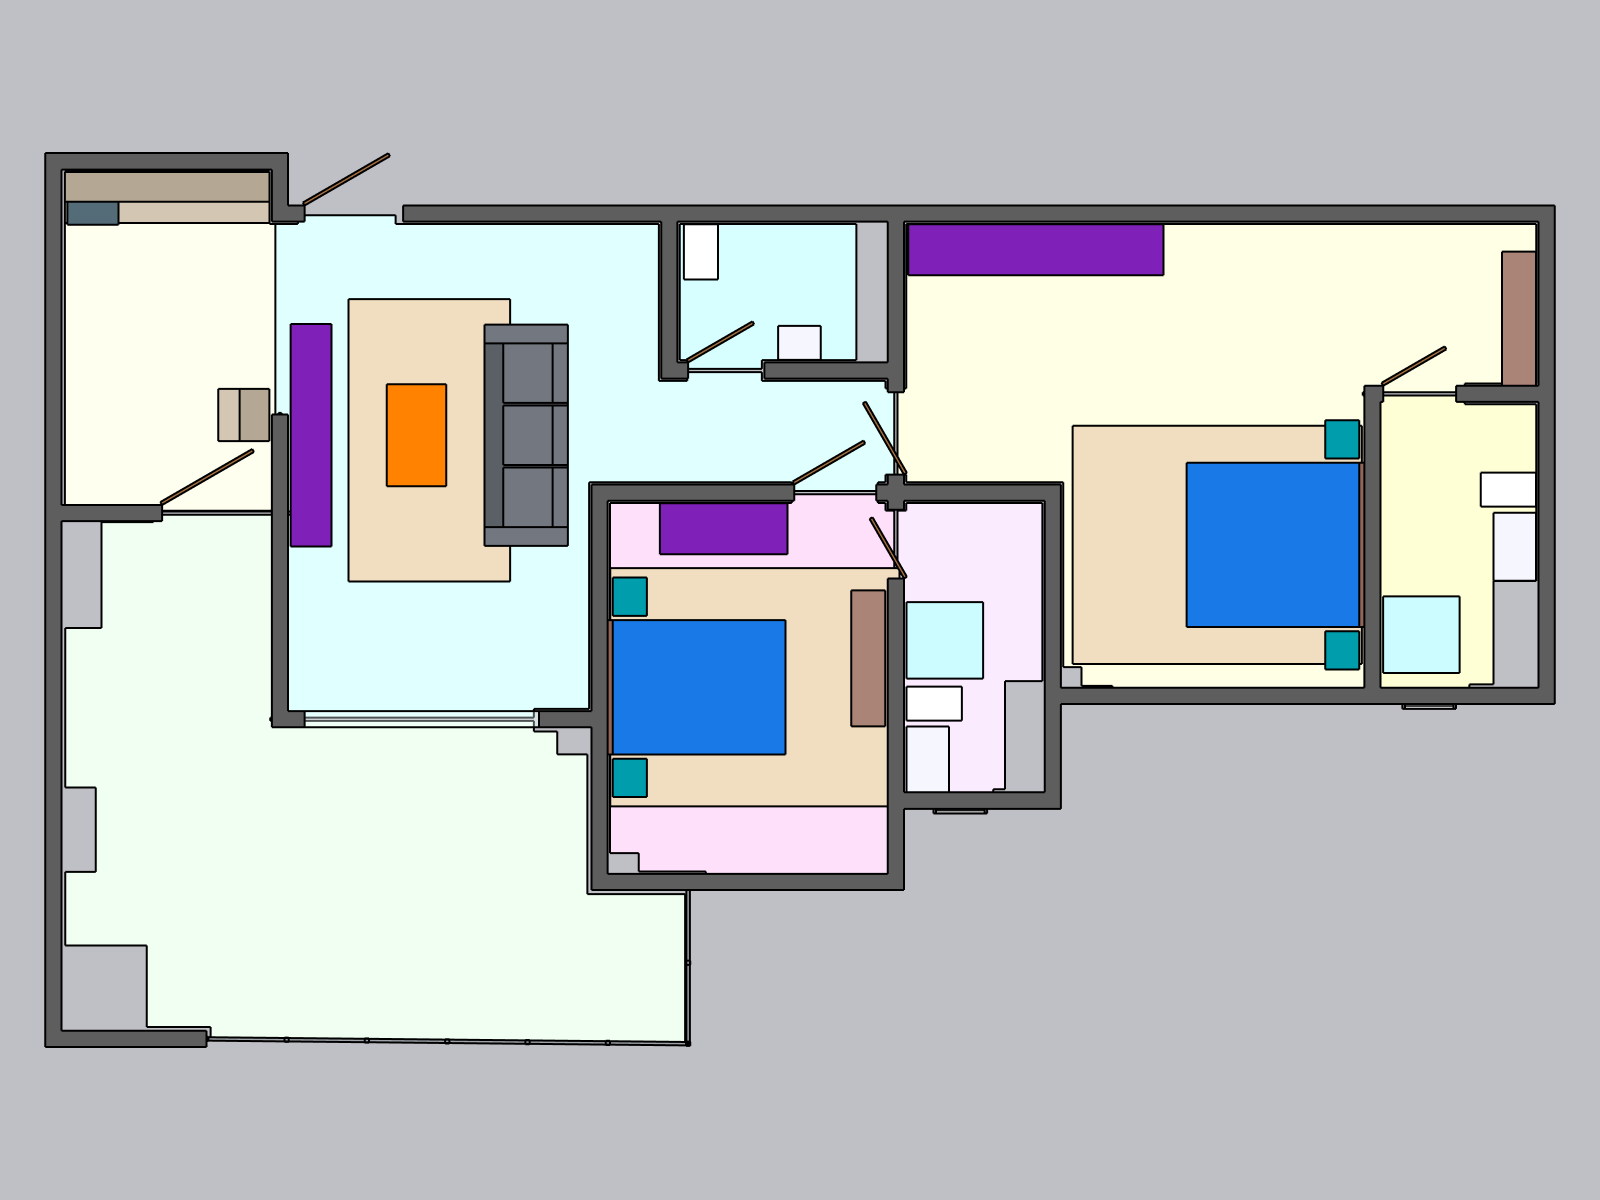
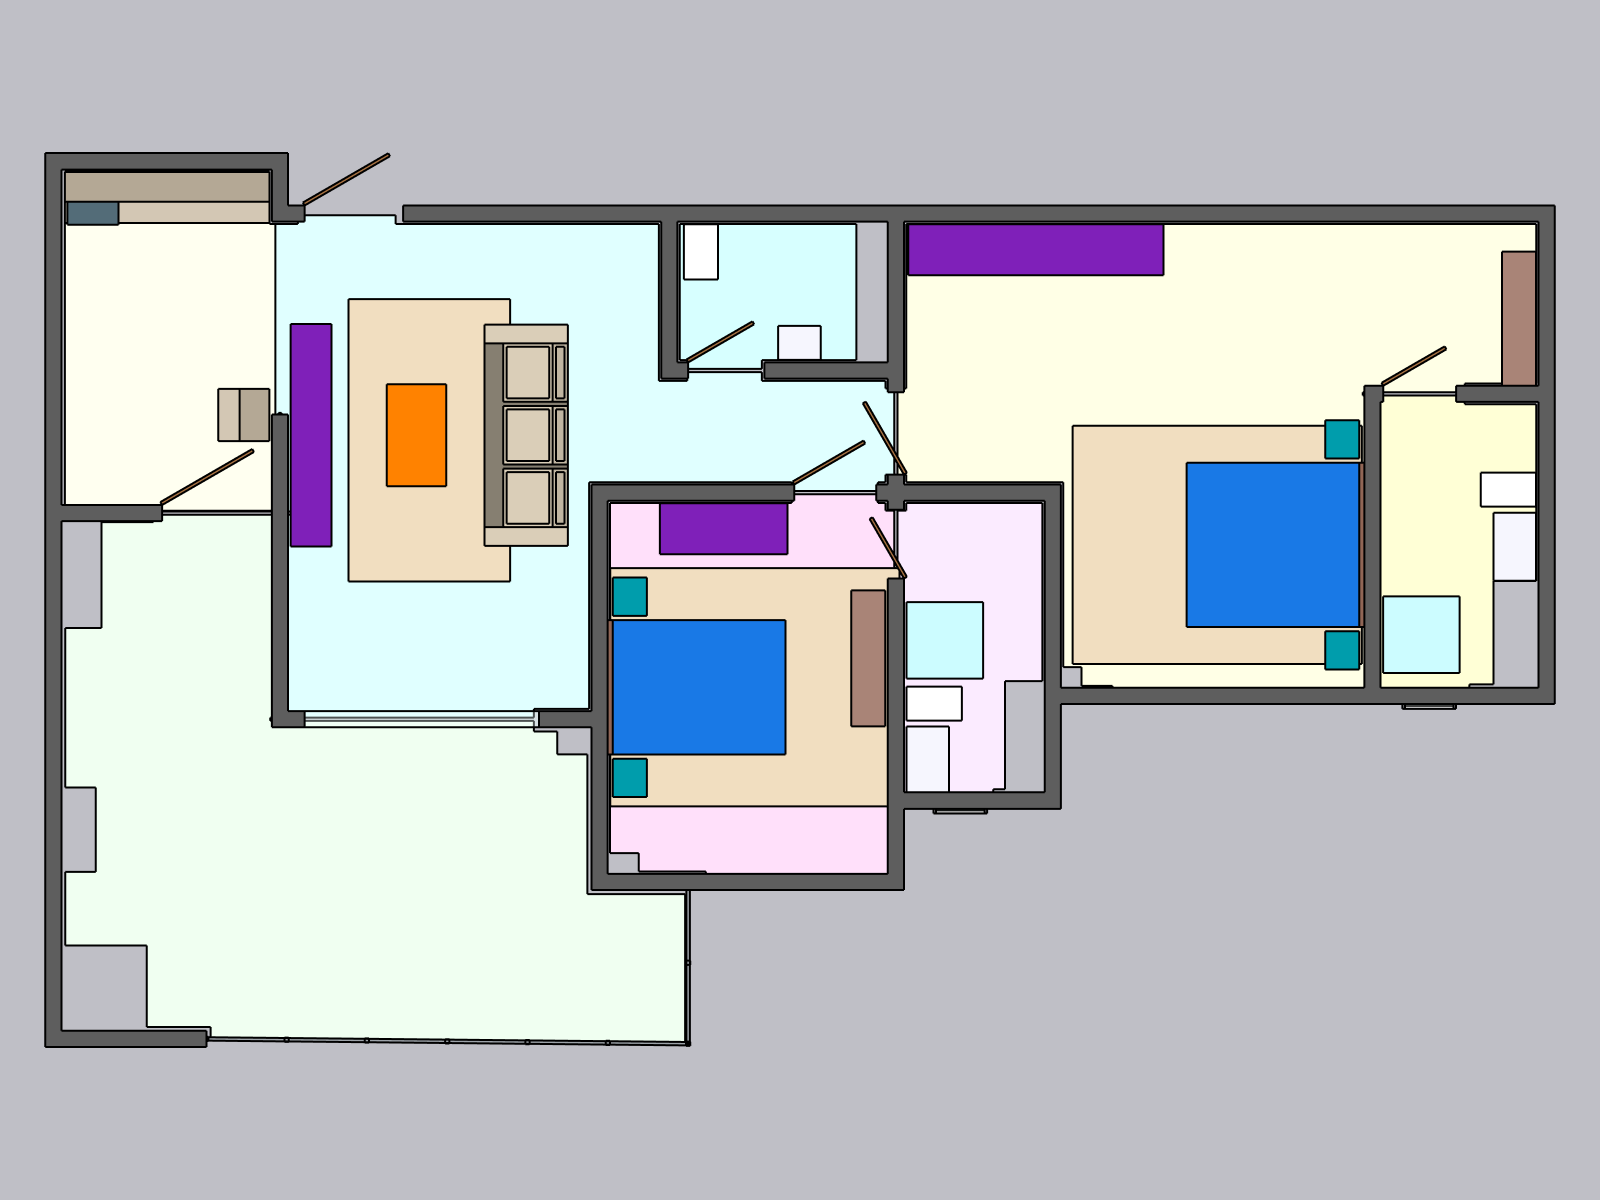
feat(furniture): sofa golden REAL aplicado na sala da planta_74 (concreto)
Convergencia: o sofa parametrico GPT-PASS (materiais linho + bevel) agora no
apartamento REAL. place_layout_skp.rb (renderer do ape) ganhou o mesmo bevel/
chanfro nas almofadas do build_furniture_skp.rb (so kinds seat_cushion/back_cushion).
Ape rebuildado (43 placeholders) com o sofa golden+beveled na sala;
planta_74_furnished.skp atualizado. Render top-down (sala_sofa_golden_top): sofa
de 3 lugares de tecido linho, base escura, 3 assentos+3 encostos SEPARADOS c/
vinco, 2 bracos, almofadas CHANFRADAS — movel REAL na planta, nao caixa cinza.
base planta_74 INTACTA (hash).

Changed region(s): [[0.2812, 0.2467, 0.375, 0.4625]]

diff --git a/tools/place_layout_skp.rb b/tools/place_layout_skp.rb
@@ -71,12 +71,26 @@ def pl_run
       z0 = (b['z0_in'] || 0).to_f      # base elevada (ex.: armario aereo flutua sobre a bancada)
       g = pents.add_group
       g.name = b['label'] || b['kind']
-      # desenha o POLIGONO real (cantos) na cota z0, preservando rotacao
+      # desenha o POLIGONO real (cantos) na cota z0; almofadas ganham chanfro no topo
+      # (Visual Quality Layer: nao parecer cubo/game asset)
       pts = (b['corners'] || []).map { |c| Geom::Point3d.new(c[0].to_f, c[1].to_f, z0) }
+      bev = %w[seat_cushion back_cushion].include?(b['kind']) ? (0.04 * 39.3700787402) : 0.0
       face = g.entities.add_face(pts)
-      # extrudar SEMPRE pra cima (z0 -> z0+h)
-      dir = face.normal.z >= 0 ? h : -h
-      face.pushpull(dir)
+      if bev > 0 && h > bev * 1.6
+        face.pushpull(face.normal.z >= 0 ? (h - bev) : -(h - bev))
+        topz = z0 + h - bev
+        top = g.entities.grep(Sketchup::Face).find { |f| f.normal.z.abs > 0.9 && (f.bounds.center.z - topz).abs < 0.3 }
+        if top
+          bb = top.bounds
+          ix0, iy0, ix1, iy1 = bb.min.x + bev, bb.min.y + bev, bb.max.x - bev, bb.max.y - bev
+          if ix1 > ix0 && iy1 > iy0
+            ip = [[ix0, iy0, topz], [ix1, iy0, topz], [ix1, iy1, topz], [ix0, iy1, topz]].map { |p| Geom::Point3d.new(*p) }
+            g.entities.add_face(ip).pushpull(bev)
+          end
+        end
+      else
+        face.pushpull(face.normal.z >= 0 ? h : -h)
+      end
       mat = pl_material(model, "ph_#{b['kind']}", b['rgb'] || [120, 120, 120])
       g.material = mat
       placed += 1